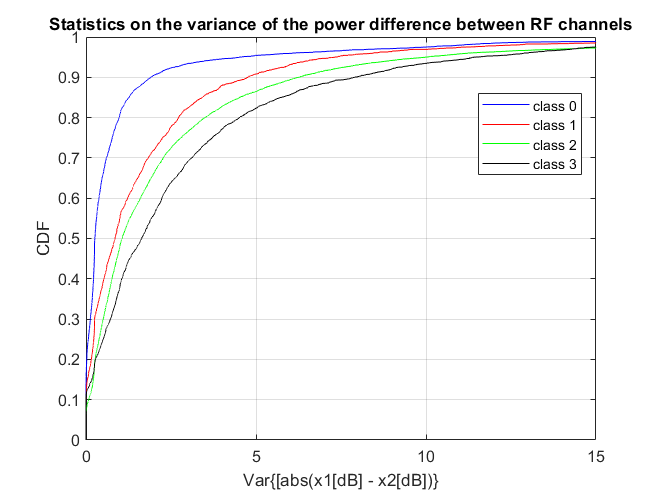
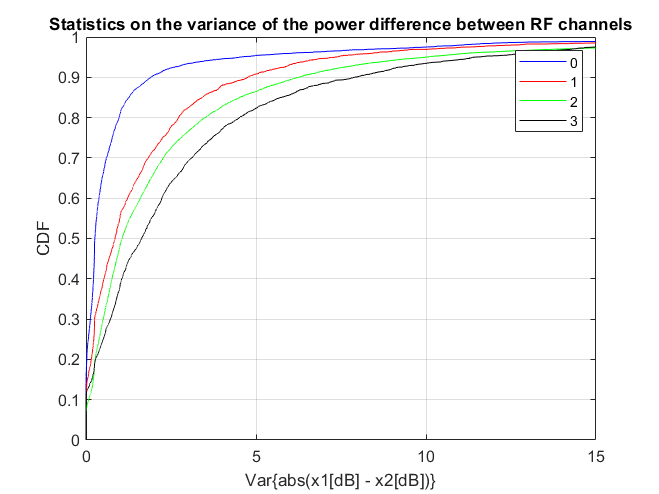
update readme

Changed region(s): [[0.7284, 0.1215, 0.8801, 0.3644], [0.3642, 0.9413, 0.6677, 1.0], [0.7891, 0.0911, 0.8498, 0.1215]]

diff --git a/README.md b/README.md
@@ -2,11 +2,15 @@
 In this challenge the competitors were asked to detect and count occupants within rooms using WiFi signals (based on the mesured RSSI strength along time).  
 My solution was derived from the observation that an increase in the number of occupants
 in a room is likely to create stronger multipath effects, resulting in a greater variation
-in power difference between the two antennas, especially if the people are in motion.  
+in power difference between the two antennas, especially if the people are in motion.
 As shown in the figure below, the probability of a stronger power variance is much higher
-for a room with three occupants (blue label) compared to an empty room (black label)
+for a room with three occupants (black label) compared to an empty room (blue label)
 
 ![CDF plot](https://github.com/zahilaty/MAFAT-RSSI-Challenge/blob/master/Figures/ExampleForMPImportance.png)
 
-This feature was one of the features that were input into ResNet50.  
+"This particular feature was among the inputs used to train ResNet50, alongside the average
+power and other relevant data. The network was trained to predict the probability of each class,
+which corresponds to the number of occupants in a given space, using L1 loss as the evaluation
+criterion. This approach was necessary because we were dealing with an "ordered loss" scenario,
+even though the predictions were based on classification rather than regression.  
 A more detailed description will be provided at a later time
